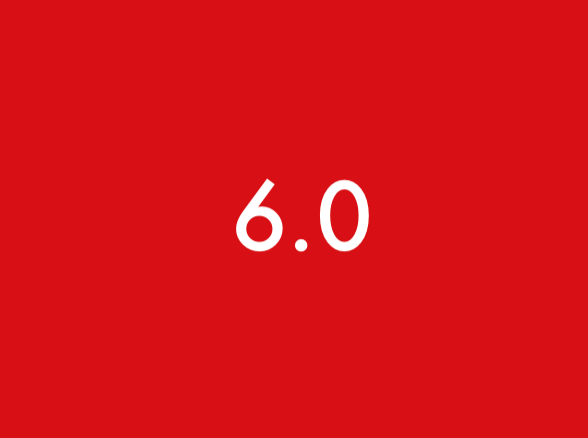
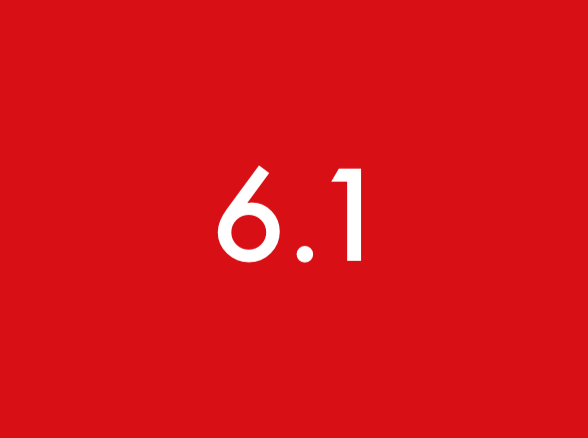
Update to 6.1

Changed region(s): [[0.3673, 0.3858, 0.6429, 0.6233]]

diff --git a/css/ckeditor5.css b/css/ckeditor5.css
@@ -2,8 +2,8 @@
  * We can't do the following @import statements in CKEditor5 and just add in UNL's files
  * because it no longer runs in an iframe. The editor is now part of the page so if we
  * load UNL's CSS it will supersede the admin theme's styles on things outside CKEditor.
-   @import url('/wdn/templates_6.0/css/critical.css');
-   @import url('/wdn/templates_6.0/css/main.css');
+   @import url('/wdn/templates_6.1/css/critical.css');
+   @import url('/wdn/templates_6.1/css/main.css');
 
  * The following rules are copied from unl/wdntemplates with .ck-content prepended to
  * scope them just to the editor.
